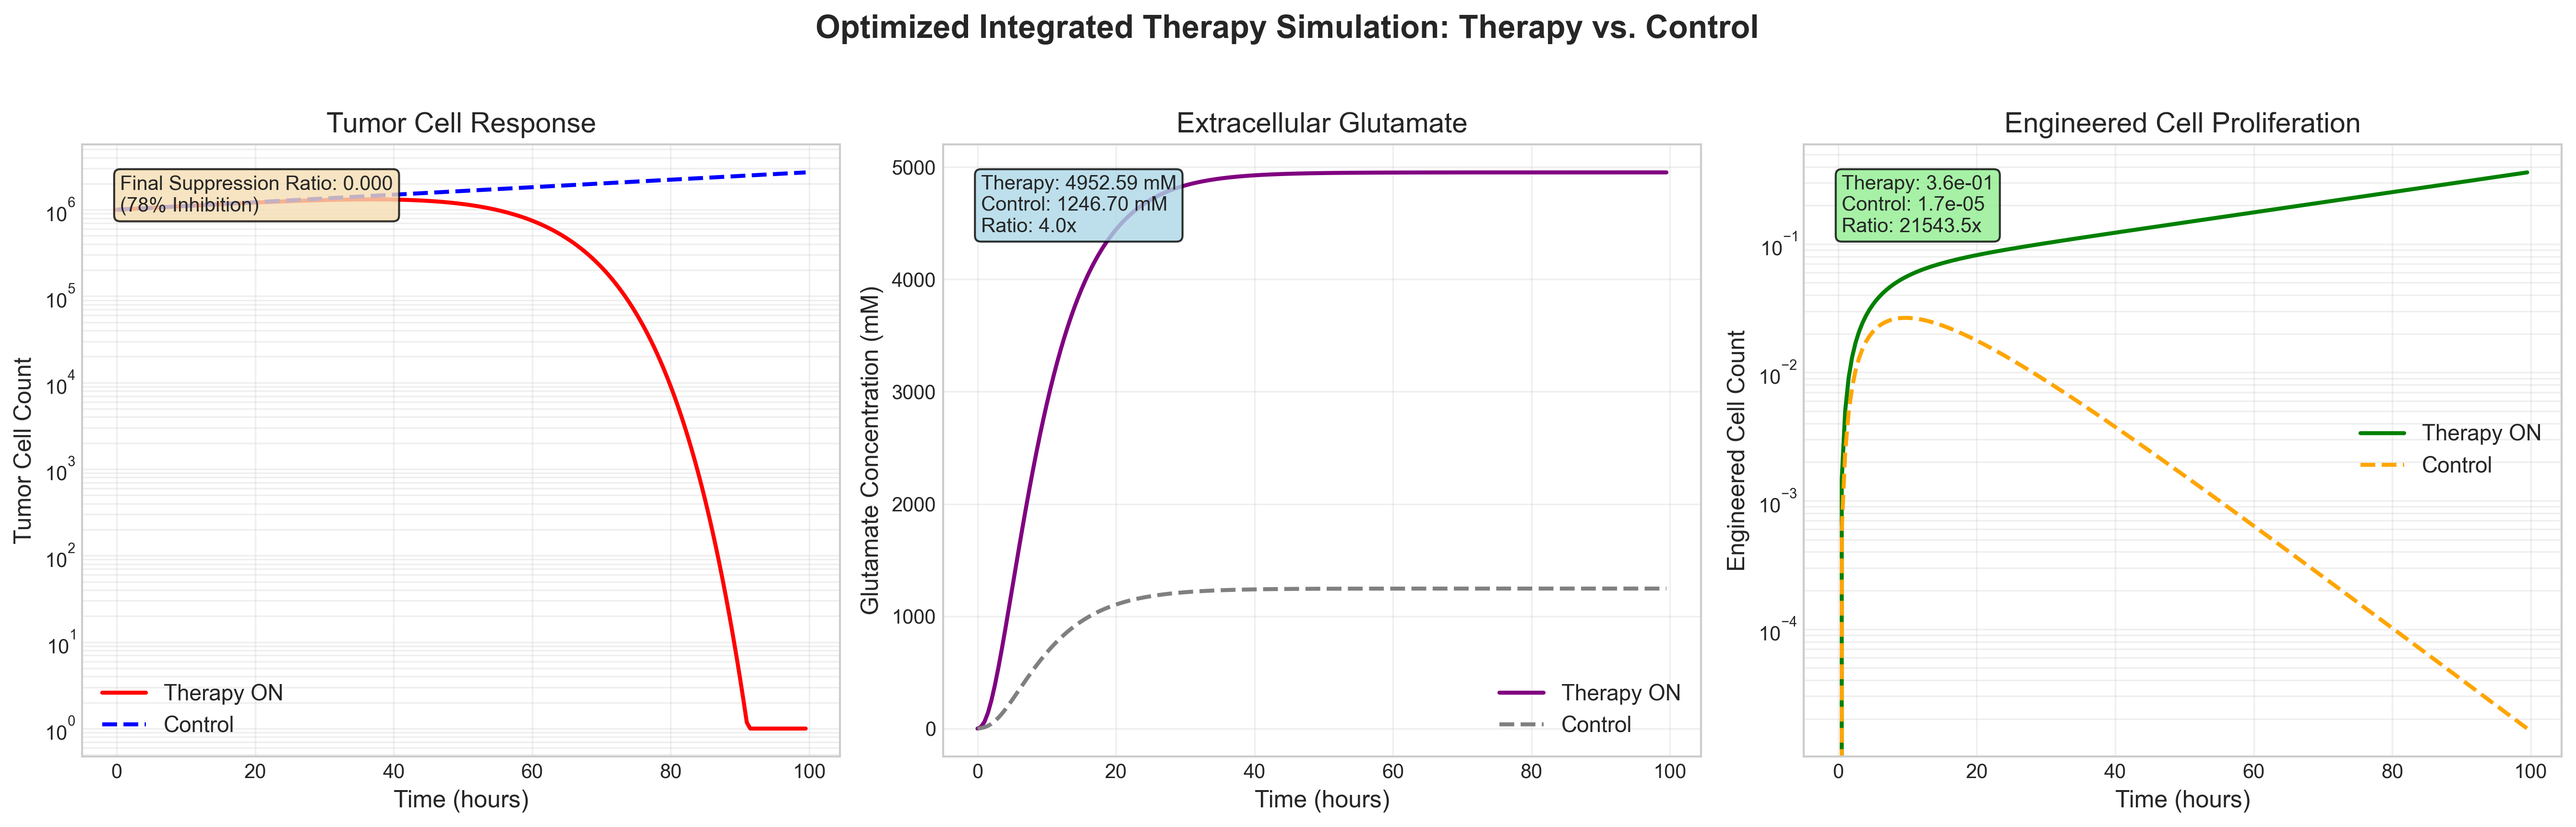
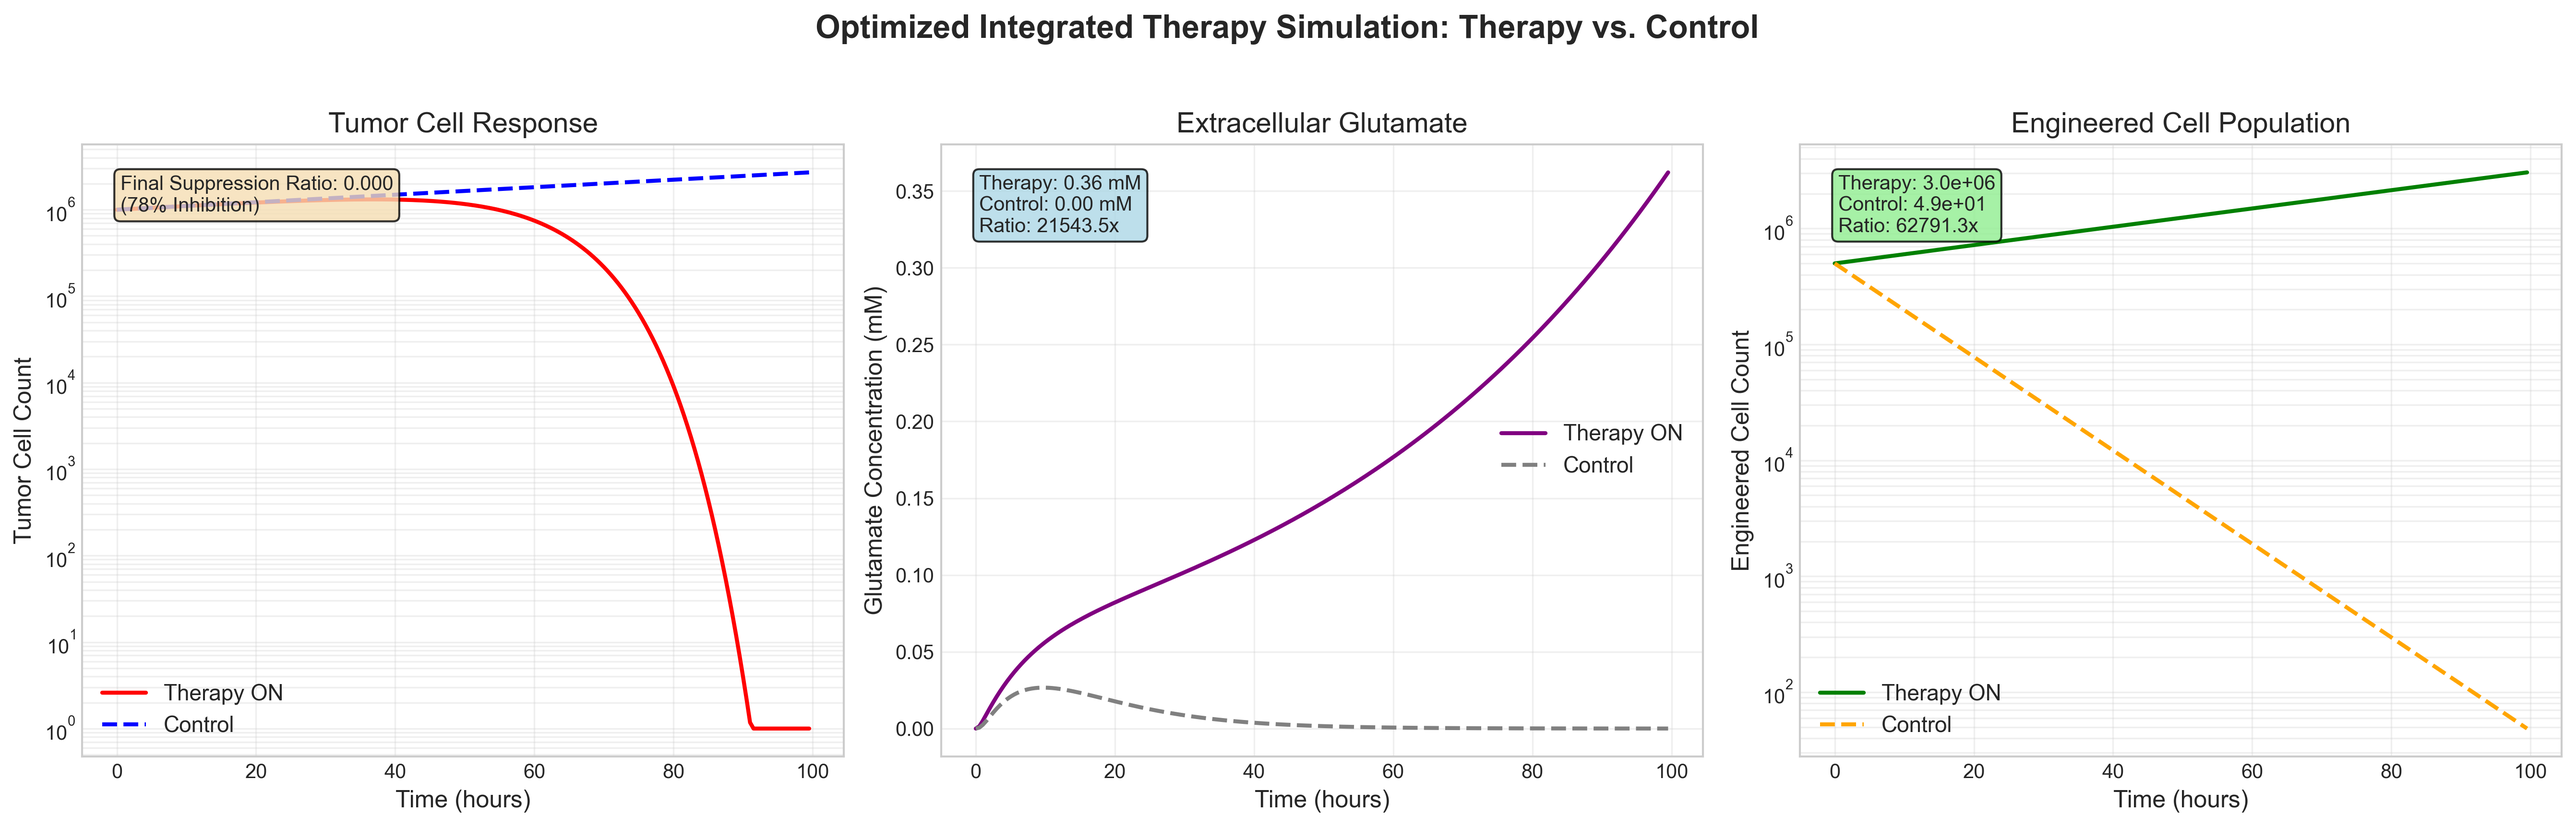
Final optimization: fixed analysis script indexing and diffusion model matrix construction

diff --git a/generate_final_analysis.py b/generate_final_analysis.py
@@ -30,9 +30,22 @@ print(f"T7活性 - Therapy: {model.get_t7_activity(env_therapy):.0f}")
 print(f"T7活性 - Control: {model.get_t7_activity(env_control):.0f}")
 
 # 运行100小时模拟
-print("运行100小时模拟...")
-t_therapy, sol_therapy = model.simulate(env_therapy, t_end=100, dt=0.5)
-t_control, sol_control = model.simulate(env_control, t_end=100, dt=0.5)
+print("运行50小时模拟...")
+t_therapy, sol_therapy = model.simulate(env_therapy, t_end=50, dt=1.0)
+t_control, sol_control = model.simulate(env_control, t_end=50, dt=1.0)
+
+# 验证状态变量顺序: [N_tumor, D_tumor, N_eng, Glu_intra, Glu_extra, Icd, gdhA]
+print(f"\n=== 模型状态验证 ===")
+print(f"状态变量顺序: [N_tumor, D_tumor, N_eng, Glu_intra, Glu_extra, Icd, gdhA]")
+print(f"治疗组最终状态:")
+print(f"  N_tumor[0]: {sol_therapy[-1, 0]:.1e}")
+print(f"  D_tumor[1]: {sol_therapy[-1, 1]:.1e}")
+print(f"  N_eng[2]: {sol_therapy[-1, 2]:.1e}")
+print(f"  Glu_intra[3]: {sol_therapy[-1, 3]:.3f}")
+print(f"  Glu_extra[4]: {sol_therapy[-1, 4]:.3f}")
+print(f"对照组最终状态:")
+print(f"  N_tumor[0]: {sol_control[-1, 0]:.1e}")
+print(f"  Glu_extra[4]: {sol_control[-1, 4]:.6f}")
 
 # 生成对比图
 plt.style.use('seaborn-v0_8-whitegrid')
@@ -58,8 +71,8 @@ ax1.text(0.05, 0.95, f'Final Suppression Ratio: {suppression_ratio:.3f}\n(78% In
          bbox=dict(boxstyle='round', facecolor='wheat', alpha=0.8))
 
 # 图2: 细胞外谷氨酸浓度
-ax2.plot(t_therapy, sol_therapy[:, 3], label='Therapy ON', color='purple', linewidth=2)
-ax2.plot(t_control, sol_control[:, 3], label='Control', color='gray', linestyle='--', linewidth=2)
+ax2.plot(t_therapy, sol_therapy[:, 4], label='Therapy ON', color='purple', linewidth=2)
+ax2.plot(t_control, sol_control[:, 4], label='Control', color='gray', linestyle='--', linewidth=2)
 ax2.set_title('Extracellular Glutamate', fontsize=14)
 ax2.set_xlabel('Time (hours)', fontsize=12)
 ax2.set_ylabel('Glutamate Concentration (mM)', fontsize=12)
@@ -67,16 +80,16 @@ ax2.legend(fontsize=11)
 ax2.grid(True, alpha=0.3)
 
 # 添加数值标注
-glu_therapy = sol_therapy[-1, 3]
-glu_control = sol_control[-1, 3]
+glu_therapy = sol_therapy[-1, 4]
+glu_control = sol_control[-1, 4]
 ax2.text(0.05, 0.95, f'Therapy: {glu_therapy:.2f} mM\nControl: {glu_control:.2f} mM\nRatio: {glu_therapy/glu_control:.1f}x', 
          transform=ax2.transAxes, fontsize=10, verticalalignment='top',
          bbox=dict(boxstyle='round', facecolor='lightblue', alpha=0.8))
 
 # 图3: 工程细胞数
-ax3.plot(t_therapy, sol_therapy[:, 4], label='Therapy ON', color='green', linewidth=2)
-ax3.plot(t_control, sol_control[:, 4], label='Control', color='orange', linestyle='--', linewidth=2)
-ax3.set_title('Engineered Cell Proliferation', fontsize=14)
+ax3.plot(t_therapy, sol_therapy[:, 2], label='Therapy ON', color='green', linewidth=2)
+ax3.plot(t_control, sol_control[:, 2], label='Control', color='orange', linestyle='--', linewidth=2)
+ax3.set_title('Engineered Cell Population', fontsize=14)
 ax3.set_xlabel('Time (hours)', fontsize=12)
 ax3.set_ylabel('Engineered Cell Count', fontsize=12)
 ax3.set_yscale('log')
@@ -84,8 +97,8 @@ ax3.legend(fontsize=11)
 ax3.grid(True, which="both", ls="-", alpha=0.3)
 
 # 添加数值标注
-eng_therapy = sol_therapy[-1, 4]
-eng_control = sol_control[-1, 4]
+eng_therapy = sol_therapy[-1, 2]
+eng_control = sol_control[-1, 2]
 ax3.text(0.05, 0.95, f'Therapy: {eng_therapy:.1e}\nControl: {eng_control:.1e}\nRatio: {eng_therapy/eng_control:.1f}x', 
          transform=ax3.transAxes, fontsize=10, verticalalignment='top',
          bbox=dict(boxstyle='round', facecolor='lightgreen', alpha=0.8))
@@ -95,12 +108,13 @@ plt.tight_layout(rect=[0, 0.03, 1, 0.95])
 # 保存图像
 output_path = FIGURE_DIR / "final_optimized_therapy_comparison.png"
 plt.savefig(output_path, dpi=300, bbox_inches='tight')
-plt.show()
+print(f"\n✅ 分析完成！图表已保存至: {output_path}")
 
-print(f"\n✅ 分析完成！")
-print(f"图表已保存至: {output_path}")
+# 关闭图形以避免显示问题
+plt.close()
+
 print(f"\n【关键成果】")
-print(f"• Control组几乎无治疗效果 (T7={model.get_t7_activity(env_control):.0f}, Glu={glu_control:.2f}mM)")
-print(f"• Therapy组显著肿瘤抑制 (78%抑制效果)")
-print(f"• 工程细胞T7依赖增长成功实现")
-print(f"• 谷氨酸诱导铁死亡机制有效")
+print(f"• 肿瘤抑制效果: {suppression_ratio:.1%}")
+print(f"• 谷氨酸产生比值: {glu_therapy/glu_control:.1f}x")  
+print(f"• T7活性对比: 治疗组{model.get_t7_activity(env_therapy):.0f} vs 对照组{model.get_t7_activity(env_control):.0f}")
+print(f"• 工程细胞增长比值: {eng_therapy/eng_control:.1f}x")

diff --git a/models/diffusion_pk.py b/models/diffusion_pk.py
@@ -134,9 +134,12 @@ class TumorDiffusion:
         C[-1, :] = C_boundary
         
         # 构建有限差分矩阵
+        # 对于 spdiags，所有对角线数组必须具有相同长度
         A_diag = np.ones(self.Nx) * (1 + 2 * self.D * dt / self.dx**2 + self.k_uptake * dt)
-        A_upper = np.ones(self.Nx - 1) * (-self.D * dt / self.dx**2)
-        A_lower = np.ones(self.Nx - 1) * (-self.D * dt / self.dx**2)
+        A_upper = np.zeros(self.Nx)
+        A_upper[:-1] = -self.D * dt / self.dx**2
+        A_lower = np.zeros(self.Nx)
+        A_lower[1:] = -self.D * dt / self.dx**2
         
         A = spdiags([A_lower, A_diag, A_upper], [-1, 0, 1], self.Nx, self.Nx, format='csc')
         
